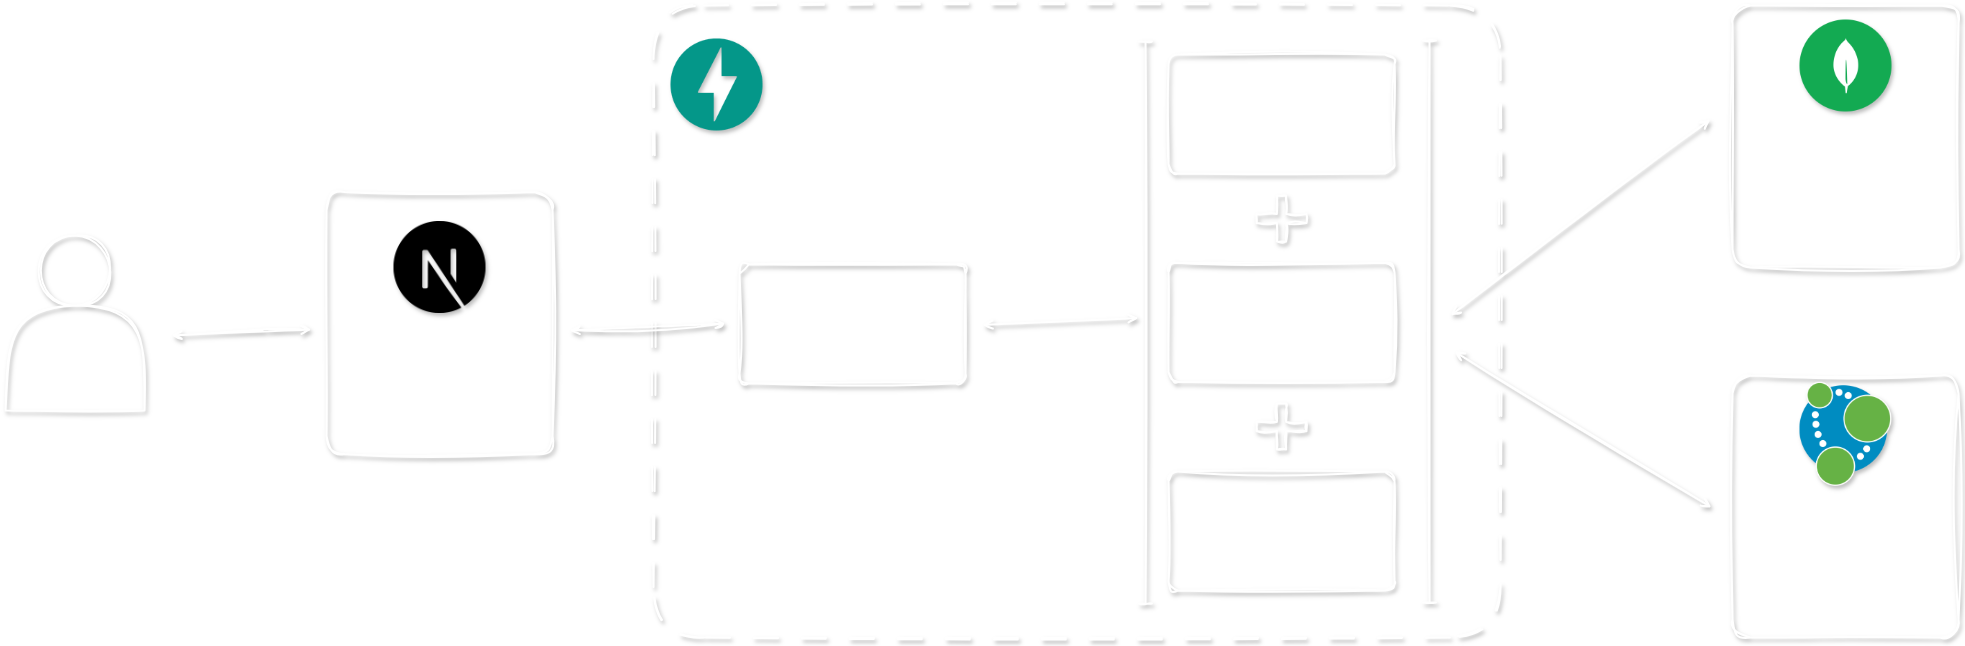
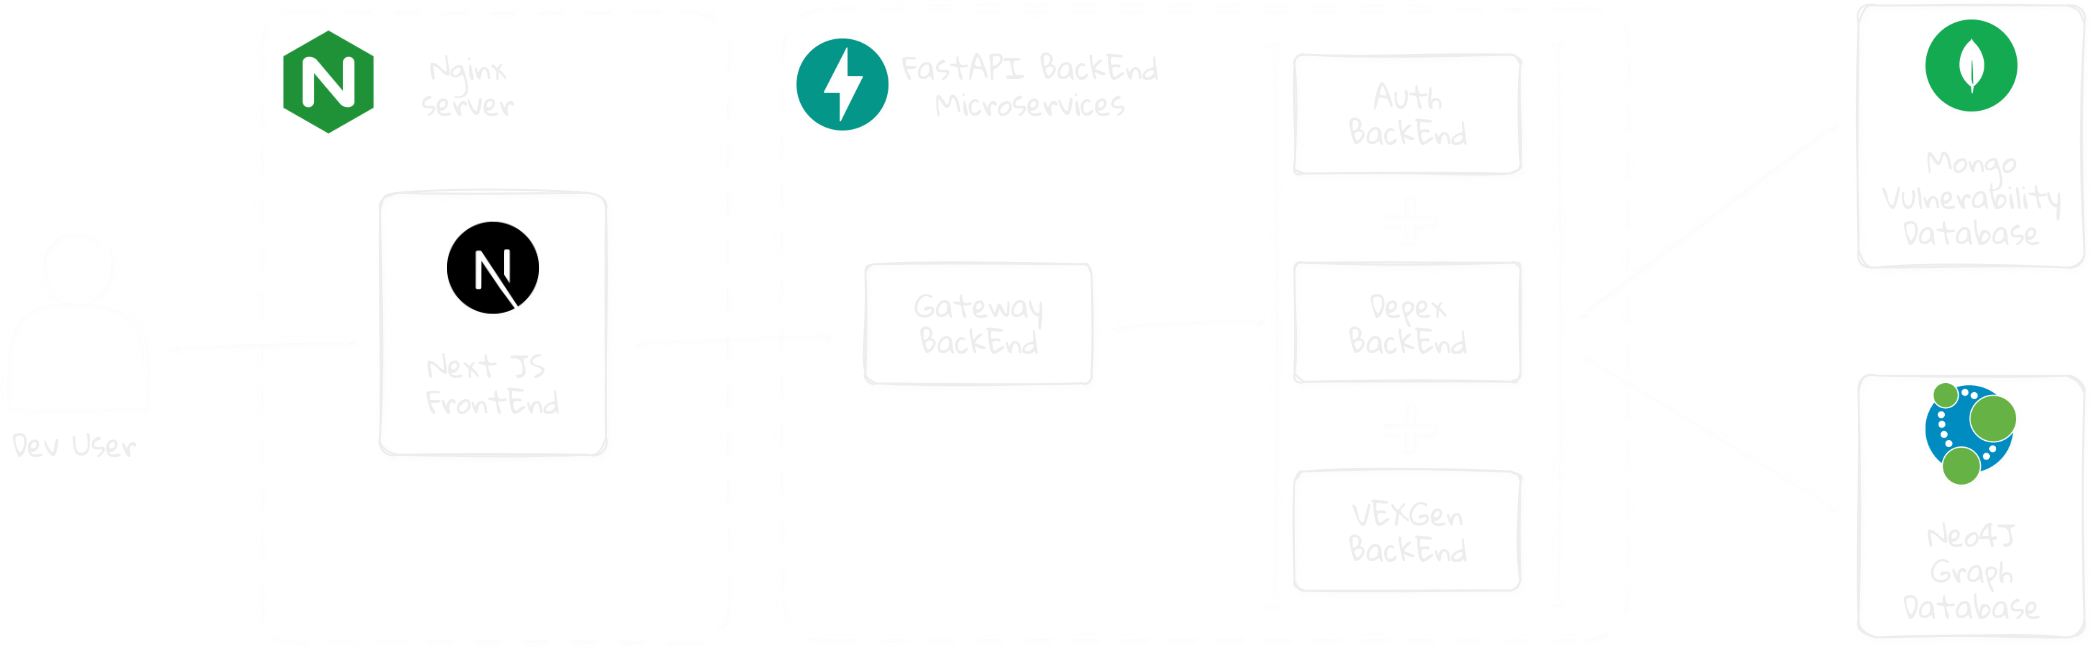
chore: Updated architecture figs

diff --git a/index.md b/index.md
@@ -42,7 +42,7 @@ This knowledge graph enables advanced use cases such as automated supply chain i
 
 Secure Chain software architecture is based on microservices. The application is divided into several layers, each with a specific role and associated technologies that allow for independent scaling, maintenance, and development of functionalities. The layers that make up this architecture are briefly described below:
 
-1. **Frontend (Client Application):** Built with *Next.js*, this is the user-facing layer accessed through a browser or mobile device. It sends HTTP/HTTPS requests to the backend, handles user input, and displays the results dynamically.
+1. **Frontend (Client Application):** Built with *Next.js*, and served statically with *Nginx*, this is the user-facing layer accessed through a browser or mobile device. It sends HTTP/HTTPS requests to the backend, handles user input, and displays the results dynamically.
 
 2. **API Gateway (BFF - Backend for Frontend):** Implemented with *FastAPI*, this gateway manages routes client requests to the appropriate microservice, and aggregates data when necessary.
 

diff --git a/local-deployment.md b/local-deployment.md
@@ -6,7 +6,7 @@ nav_order: 4
 
 # Local Deployment
 
-You can try **Secure Chain** tools in your local machine following the next steps.
+You can try **Secure Chain** tools backends in your local machine following the next steps.
 
 ## Enviroment File
 
